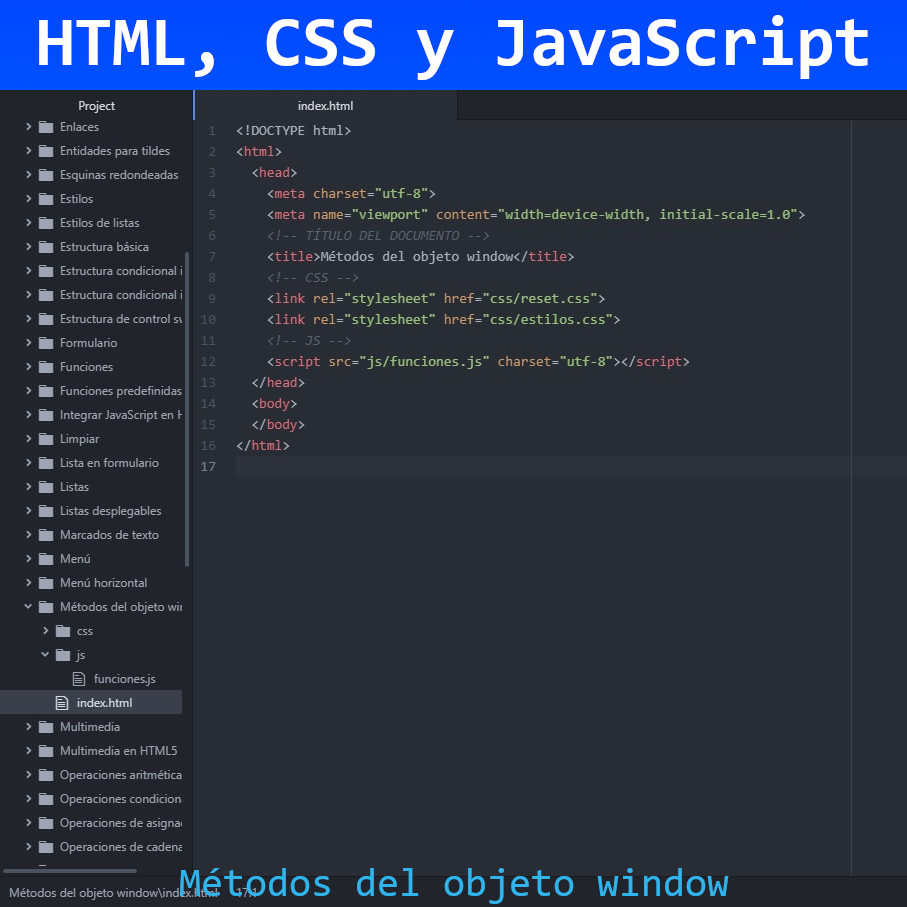
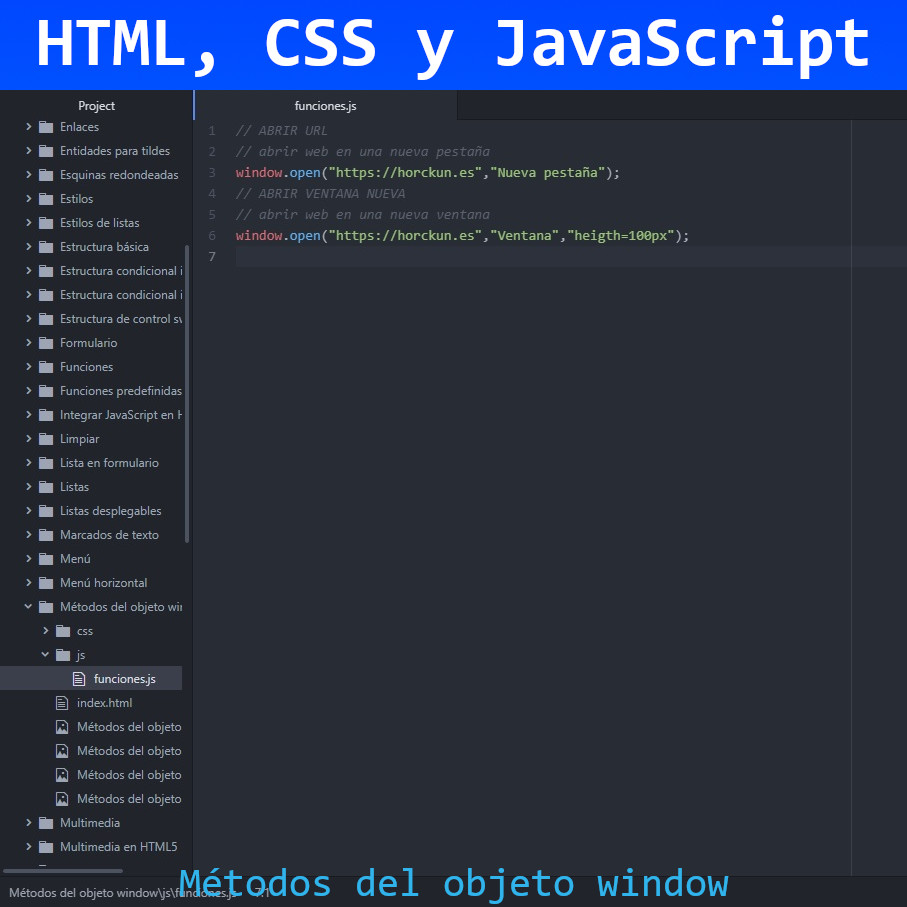
Métodos del objeto window
Métodos del objeto window en JavaScript

diff --git a/HTML, CSS y JavaScript/Métodos del objeto window/js/funciones.js b/HTML, CSS y JavaScript/Métodos del objeto window/js/funciones.js
@@ -1,3 +1,6 @@
 // ABRIR URL
 // abrir web en una nueva pestaña
-window.open("https://horckun.es");
+window.open("https://horckun.es","Nueva pestaña");
+// ABRIR VENTANA NUEVA
+// abrir web en una nueva ventana
+window.open("https://horckun.es","Ventana","heigth=100px");
